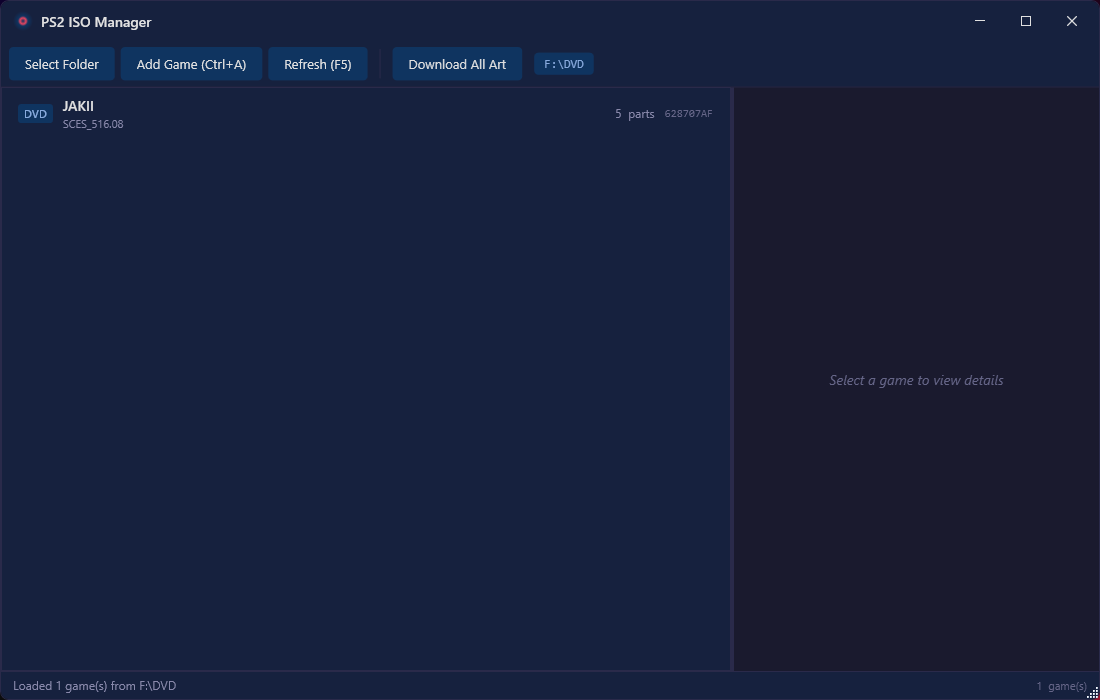
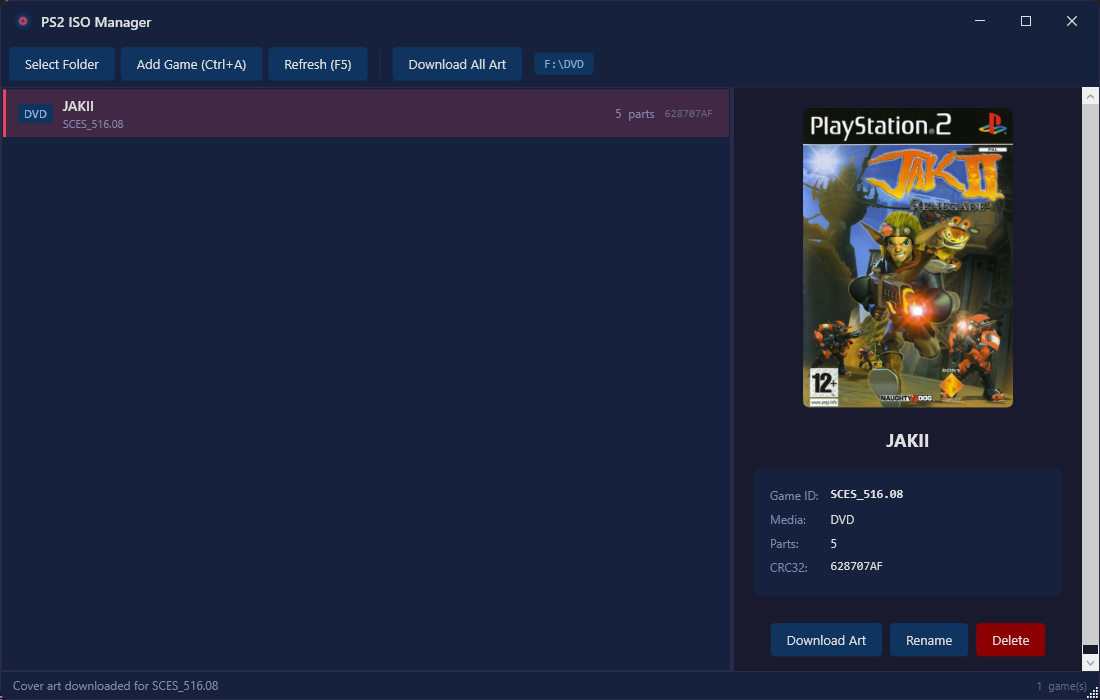
Fix cover art download and display
- CoverArtService: try multiple game ID format variants (underscore,
  hyphen, no-dots, lowercase) against the cover art repo
- CoverArtService: validate response is actually an image, not HTML error
- GameEntryViewModel: expose CoverImage as BitmapImage property directly
  instead of relying on converter through nested bindings
- GameDetailView: bind Image.Source to CoverImage (BitmapImage) which
  updates reliably via PropertyChanged
- Update screenshot showing Jak II cover art working

diff --git a/PS2IsoManager/Views/GameDetailView.xaml b/PS2IsoManager/Views/GameDetailView.xaml
@@ -4,7 +4,6 @@
              xmlns:converters="clr-namespace:PS2IsoManager.Converters">
 
     <UserControl.Resources>
-        <converters:ImagePathToSourceConverter x:Key="ImageConverter"/>
         <converters:MediaTypeToStringConverter x:Key="MediaTypeConverter"/>
         <converters:BoolToVisibilityConverter x:Key="BoolVisConverter"/>
     </UserControl.Resources>
@@ -20,14 +19,14 @@
         <ScrollViewer VerticalScrollBarVisibility="Auto"
                       Visibility="{Binding HasSelectedGame, Converter={StaticResource BoolVisConverter}}">
             <StackPanel Margin="20">
-                <!-- Cover art -->
+                <!-- Cover art — binds directly to BitmapImage property -->
                 <Border Width="210" Height="300" Background="#0F3460" CornerRadius="6"
                         HorizontalAlignment="Center" Margin="0,0,0,20">
                     <Grid>
                         <TextBlock Text="No Cover Art" HorizontalAlignment="Center"
                                    VerticalAlignment="Center" Foreground="#666688"
                                    FontSize="13"/>
-                        <Image Source="{Binding SelectedGame.CoverPath, Converter={StaticResource ImageConverter}}"
+                        <Image Source="{Binding SelectedGame.CoverImage}"
                                Stretch="UniformToFill" RenderOptions.BitmapScalingMode="HighQuality">
                             <Image.Clip>
                                 <RectangleGeometry Rect="0,0,210,300" RadiusX="6" RadiusY="6"/>

diff --git a/PS2IsoManager/Services/CoverArtService.cs b/PS2IsoManager/Services/CoverArtService.cs
@@ -5,44 +5,104 @@ namespace PS2IsoManager.Services;
 
 public class CoverArtService
 {
-    private static readonly HttpClient Http = new();
+    private static readonly HttpClient Http = new()
+    {
+        Timeout = TimeSpan.FromSeconds(15)
+    };
 
-    // Primary source: xlenore's ps2-covers GitHub repo
-    private const string BaseUrl = "https://raw.githubusercontent.com/xlenore/ps2-covers/main/covers/default";
+    static CoverArtService()
+    {
+        Http.DefaultRequestHeaders.UserAgent.ParseAdd("PS2IsoManager/1.0");
+    }
 
-    public static async Task<string?> DownloadCoverAsync(string gameId, string outputDir, CancellationToken ct = default)
+    // Base URL templates — {0} is replaced with the game ID variant
+    private static readonly string[] CoverSources =
+    {
+        "https://raw.githubusercontent.com/xlenore/ps2-covers/main/covers/default/{0}.jpg",
+        "https://raw.githubusercontent.com/xlenore/ps2-covers/main/covers/default/{0}.png",
+    };
+
+    public static async Task<string?> DownloadCoverAsync(string gameId, string outputDir, IProgress<string>? status = null, CancellationToken ct = default)
     {
         string artDir = Path.Combine(outputDir, "ART");
         Directory.CreateDirectory(artDir);
 
-        string covPath = Path.Combine(artDir, $"{gameId}_COV.jpg");
-        if (File.Exists(covPath))
-            return covPath;
+        // Check if already exists
+        string? existing = FindExistingCover(gameId, outputDir);
+        if (existing != null)
+            return existing;
 
-        // Try with the game ID as-is
-        string? result = await TryDownloadAsync($"{BaseUrl}/{gameId}.jpg", covPath, ct);
-        if (result != null) return result;
+        // Build all ID variants to try
+        string[] idVariants = GetIdVariants(gameId);
 
-        // Try with underscore replaced by hyphen
-        string altId = gameId.Replace('_', '-');
-        result = await TryDownloadAsync($"{BaseUrl}/{altId}.jpg", covPath, ct);
-        if (result != null) return result;
+        // Try each variant against each source
+        foreach (string variant in idVariants)
+        {
+            foreach (string sourceTemplate in CoverSources)
+            {
+                ct.ThrowIfCancellationRequested();
 
-        // Try PNG variant
-        string covPngPath = Path.Combine(artDir, $"{gameId}_COV.png");
-        result = await TryDownloadAsync($"{BaseUrl}/{gameId}.png", covPngPath, ct);
-        return result;
+                string url = string.Format(sourceTemplate, variant);
+                bool isPng = url.EndsWith(".png", StringComparison.OrdinalIgnoreCase);
+                string savePath = Path.Combine(artDir, $"{gameId}_COV{(isPng ? ".png" : ".jpg")}");
+
+                status?.Report($"Trying {variant}...");
+
+                string? result = await TryDownloadAsync(url, savePath, ct);
+                if (result != null)
+                    return result;
+            }
+        }
+
+        return null;
+    }
+
+    /// <summary>
+    /// Generate all common ID format variants from a game ID.
+    /// e.g. SCES_516.08 → [SCES_516.08, SCES-51608, SCES_51608, SCES 516.08]
+    /// </summary>
+    private static string[] GetIdVariants(string gameId)
+    {
+        var variants = new HashSet<string>(StringComparer.OrdinalIgnoreCase) { gameId };
+
+        // Remove dots: SCES_516.08 → SCES_51608
+        string noDots = gameId.Replace(".", "");
+        variants.Add(noDots);
+
+        // Underscore to hyphen: SCES_516.08 → SCES-516.08
+        string hyphen = gameId.Replace('_', '-');
+        variants.Add(hyphen);
+
+        // Underscore to hyphen + no dots: SCES-51608
+        string hyphenNoDots = noDots.Replace('_', '-');
+        variants.Add(hyphenNoDots);
+
+        // Lowercase variants
+        variants.Add(gameId.ToLowerInvariant());
+        variants.Add(hyphenNoDots.ToLowerInvariant());
+
+        return variants.ToArray();
     }
 
     private static async Task<string?> TryDownloadAsync(string url, string savePath, CancellationToken ct)
     {
         try
         {
-            using var response = await Http.GetAsync(url, ct);
+            using var response = await Http.GetAsync(url, HttpCompletionOption.ResponseHeadersRead, ct);
             if (!response.IsSuccessStatusCode)
                 return null;
 
+            // Verify it's actually an image (not an HTML error page)
+            var contentType = response.Content.Headers.ContentType?.MediaType ?? "";
+            if (!contentType.StartsWith("image/"))
+                return null;
+
             var bytes = await response.Content.ReadAsByteArrayAsync(ct);
+
+            // Sanity check: at least 1KB (not a tiny error response)
+            if (bytes.Length < 1024)
+                return null;
+
             await File.WriteAllBytesAsync(savePath, bytes, ct);
             return savePath;
         }
@@ -58,13 +118,23 @@ public class CoverArtService
         if (!Directory.Exists(artDir))
             return null;
 
-        string[] extensions = { "_COV.jpg", "_COV.png", "_COV.bmp" };
-        foreach (var ext in extensions)
+        string[] suffixes = { "_COV.jpg", "_COV.png", "_COV.bmp", "_COV.jpeg" };
+        foreach (var suffix in suffixes)
         {
-            string path = Path.Combine(artDir, gameId + ext);
+            string path = Path.Combine(artDir, gameId + suffix);
             if (File.Exists(path))
                 return path;
         }
+
+        // Also try case-insensitive search for the game ID
+        try
+        {
+            var files = Directory.GetFiles(artDir, $"{gameId}_COV.*");
+            if (files.Length > 0)
+                return files[0];
+        }
+        catch { }
+
         return null;
     }
 }

diff --git a/PS2IsoManager/ViewModels/MainViewModel.cs b/PS2IsoManager/ViewModels/MainViewModel.cs
@@ -310,20 +310,23 @@ public class MainViewModel : ViewModelBase
     {
         if (SelectedGame == null) return;
 
+        var game = SelectedGame;
         IsBusy = true;
-        StatusText = $"Downloading cover art for {SelectedGame.GameId}...";
+        StatusText = $"Downloading cover art for {game.GameId}...";
 
         try
         {
-            string? path = await CoverArtService.DownloadCoverAsync(SelectedGame.GameId, UsbPath);
+            var statusProgress = new Progress<string>(s => StatusText = s);
+            string? path = await CoverArtService.DownloadCoverAsync(game.GameId, UsbPath, statusProgress);
             if (path != null)
             {
-                SelectedGame.CoverPath = path;
-                StatusText = $"Cover art downloaded for {SelectedGame.GameId}";
+                game.CoverPath = path;
+                // Binding is directly on GameEntryViewModel.CoverPath so PropertyChanged propagates automatically
+                StatusText = $"Cover art downloaded for {game.GameId}";
             }
             else
             {
-                StatusText = $"No cover art found for {SelectedGame.GameId}";
+                StatusText = $"No cover art found for {game.GameId}";
             }
         }
         catch (Exception ex)
@@ -341,11 +344,16 @@ public class MainViewModel : ViewModelBase
         IsBusy = true;
         int downloaded = 0;
         int total = Games.Count;
+        int skipped = 0;
 
         for (int i = 0; i < Games.Count; i++)
         {
             var game = Games[i];
-            if (!string.IsNullOrEmpty(game.CoverPath)) continue;
+            if (!string.IsNullOrEmpty(game.CoverPath))
+            {
+                skipped++;
+                continue;
+            }
 
             StatusText = $"Downloading art ({i + 1}/{total}): {game.GameId}...";
             try
@@ -355,13 +363,15 @@ public class MainViewModel : ViewModelBase
                 {
                     game.CoverPath = path;
                     downloaded++;
+
+                    // Direct binding on CoverPath propagates automatically
                 }
             }
             catch { /* skip failures */ }
         }
 
         IsBusy = false;
-        StatusText = $"Downloaded {downloaded} cover(s) for {total} game(s)";
+        StatusText = $"Downloaded {downloaded} cover(s), {skipped} already had art, {total - downloaded - skipped} not found";
     }
 
     private void Refresh()

diff --git a/PS2IsoManager/ViewModels/GameEntryViewModel.cs b/PS2IsoManager/ViewModels/GameEntryViewModel.cs
@@ -1,3 +1,5 @@
+using System.IO;
+using System.Windows.Media.Imaging;
 using PS2IsoManager.Models;
 using PS2IsoManager.Services;
 
@@ -7,11 +9,13 @@ public class GameEntryViewModel : ViewModelBase
 {
     private readonly GameEntry _model;
     private string? _coverPath;
+    private BitmapImage? _coverImage;
 
     public GameEntryViewModel(GameEntry model, string? coverPath = null)
     {
         _model = model;
-        _coverPath = coverPath;
+        if (coverPath != null)
+            SetCoverFromPath(coverPath);
     }
 
     public GameEntry Model => _model;
@@ -74,6 +78,45 @@ public class GameEntryViewModel : ViewModelBase
     public string? CoverPath
     {
         get => _coverPath;
-        set => SetProperty(ref _coverPath, value);
+        set
+        {
+            if (_coverPath != value)
+            {
+                _coverPath = value;
+                OnPropertyChanged();
+                SetCoverFromPath(value);
+            }
+        }
+    }
+
+    public BitmapImage? CoverImage
+    {
+        get => _coverImage;
+        private set => SetProperty(ref _coverImage, value);
+    }
+
+    private void SetCoverFromPath(string? path)
+    {
+        if (string.IsNullOrEmpty(path) || !File.Exists(path))
+        {
+            CoverImage = null;
+            return;
+        }
+
+        try
+        {
+            var bi = new BitmapImage();
+            bi.BeginInit();
+            bi.CacheOption = BitmapCacheOption.OnLoad;
+            bi.CreateOptions = BitmapCreateOptions.IgnoreImageCache;
+            bi.UriSource = new Uri(path, UriKind.Absolute);
+            bi.EndInit();
+            bi.Freeze();
+            CoverImage = bi;
+        }
+        catch
+        {
+            CoverImage = null;
+        }
     }
 }

diff --git a/PS2IsoManager/Converters/ImagePathToSourceConverter.cs b/PS2IsoManager/Converters/ImagePathToSourceConverter.cs
@@ -1,4 +1,5 @@
 using System.Globalization;
+using System.IO;
 using System.Windows.Data;
 using System.Windows.Media.Imaging;
 
@@ -8,16 +9,21 @@ public class ImagePathToSourceConverter : IValueConverter
 {
     public object? Convert(object value, Type targetType, object parameter, CultureInfo culture)
     {
-        if (value is not string path || string.IsNullOrEmpty(path) || !System.IO.File.Exists(path))
+        if (value is not string path || string.IsNullOrEmpty(path) || !File.Exists(path))
             return null;
 
         try
         {
+            // Load from stream to avoid file locking and WPF URI caching issues
             var bi = new BitmapImage();
             bi.BeginInit();
             bi.CacheOption = BitmapCacheOption.OnLoad;
-            bi.UriSource = new Uri(path, UriKind.Absolute);
-            bi.EndInit();
+            bi.CreateOptions = BitmapCreateOptions.IgnoreImageCache;
+            using (var fs = new FileStream(path, FileMode.Open, FileAccess.Read, FileShare.Read))
+            {
+                bi.StreamSource = fs;
+                bi.EndInit();
+            }
             bi.Freeze();
             return bi;
         }
